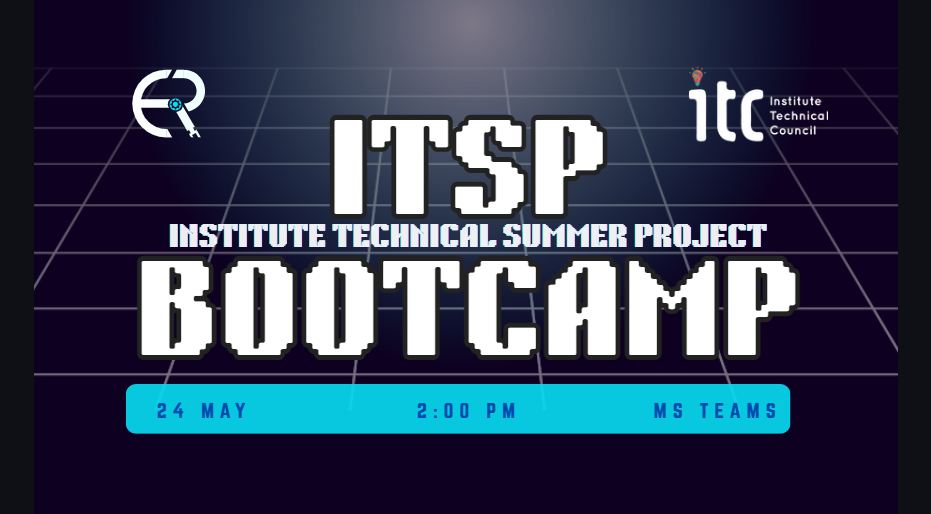
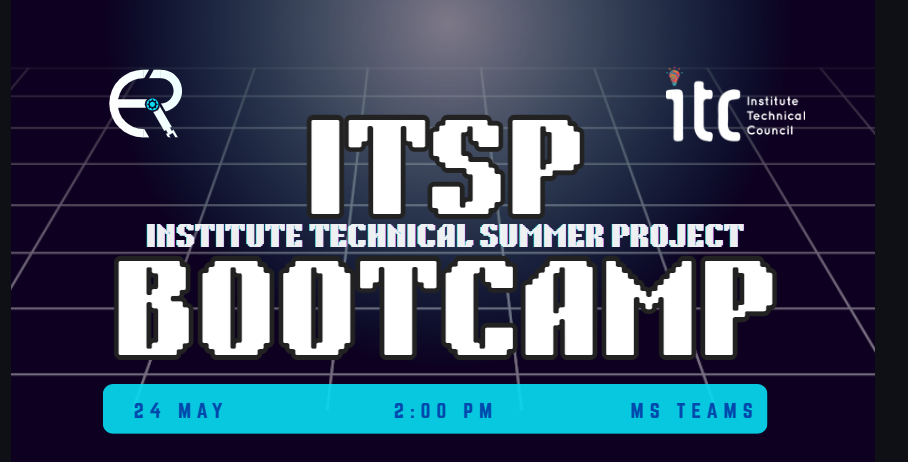
sor card added

diff --git a/src/components/Events.tsx b/src/components/Events.tsx
@@ -1,5 +1,4 @@
 import React, { useState } from 'react';
-import { Link, useNavigate } from 'react-router-dom';
 import {
   Calendar,
   Clock,
@@ -13,8 +12,6 @@ import Xlr8Img from '../assets/header.png';
 const Events = () => {
   const [email, setEmail] = useState('');
   const [subscribed, setSubscribed] = useState(false);
-
-  const navigate = useNavigate();
 
   const handleSubscribe = async () => {
     if (!email) return;
@@ -42,51 +39,82 @@ const Events = () => {
   };
 
   return (
-    <section id="events" className="py-20 bg-gray-900">
-      <div className="container mx-auto px-4">
+    <section
+      id="events"
+      className="py-20 bg-gray-950 relative overflow-hidden"
+    >
+
+      {/* Background Grid */}
+      <div className="absolute inset-0 overflow-hidden pointer-events-none">
+
+        <div
+          className="absolute inset-0 opacity-[0.06]"
+          style={{
+            backgroundImage: `
+              linear-gradient(to right, #ffffff 1px, transparent 1px),
+              linear-gradient(to bottom, #ffffff 1px, transparent 1px)
+            `,
+            backgroundSize: '50px 50px',
+          }}
+        ></div>
+
+        <div className="absolute inset-0 bg-[linear-gradient(to_bottom,transparent_95%,rgba(0,255,255,0.08)_100%)] bg-[length:100%_6px] opacity-20"></div>
+      </div>
+
+      <div className="container relative z-10 mx-auto px-4">
 
         {/* Heading */}
         <div className="text-center mb-16">
-          <h2 className="text-4xl font-heading mb-4">
+
+          <h2 className="text-5xl md:text-6xl font-heading mb-4 bg-gradient-to-r from-cyan-400 via-blue-500 to-orange-400 bg-clip-text text-transparent">
             Events
           </h2>
 
-          <div className="w-24 h-1 bg-blue-500 mx-auto mb-8"></div>
+          <div className="w-24 h-1 bg-cyan-400 mx-auto mb-8 rounded-full"></div>
 
           <p className="max-w-3xl mx-auto text-gray-300 text-lg">
-            Join us for workshops, competitions, and technical events
-            designed to enhance your skills and connect you with fellow
-            enthusiasts.
+            Join futuristic workshops, robotics bootcamps, and cutting-edge
+            engineering events designed to push your technical skills to the next level.
           </p>
         </div>
 
         <div className="grid grid-cols-1 lg:grid-cols-2 gap-8">
 
           {/* SUMMER OF ROBOTICS CARD */}
-          <div className="col-span-1 lg:col-span-2 bg-gradient-to-br from-blue-900/30 to-orange-900/30 rounded-xl overflow-hidden border border-blue-500/20">
+          <div className="relative col-span-1 lg:col-span-2 rounded-3xl overflow-hidden border border-cyan-400/20 bg-white/[0.06] backdrop-blur-md shadow-[0_0_40px_rgba(0,255,255,0.12)] hover:shadow-[0_0_55px_rgba(0,255,255,0.18)] transition-all duration-500">
+
             <div className="flex flex-col md:flex-row">
 
               {/* Content */}
-              <div className="md:w-1/2 p-8">
-                <div className="inline-flex items-center mb-4 px-3 py-1 bg-blue-500/20 rounded-full">
-                  <Calendar
-                    size={16}
-                    className="text-blue-400 mr-2"
-                  />
+              <div className="md:w-1/2 p-8 relative z-10">
 
-                  <span className="text-sm text-blue-400">
-                    Flagship Event
-                  </span>
+                {/* Featured Badge */}
+                <div className="relative inline-flex items-center mb-4 px-3 py-1 bg-cyan-500/10 border border-cyan-400/20 rounded-full backdrop-blur-md overflow-hidden">
+
+                  <div className="absolute inset-0 bg-cyan-400/20 blur-xl"></div>
+
+                  <div className="relative z-10 flex items-center">
+
+                    <Calendar
+                      size={16}
+                      className="text-cyan-400 mr-2"
+                    />
+
+                    <span className="text-sm text-cyan-300">
+                      Flagship Event
+                    </span>
+
+                  </div>
                 </div>
 
-                <h3 className="text-2xl font-bold mb-3 font-heading">
+                <h3 className="text-3xl font-bold mb-4 font-heading text-white">
                   Summer of Robotics
                 </h3>
 
                 <div className="flex items-center text-gray-300 mb-2">
                   <Calendar
                     size={16}
-                    className="mr-2 text-gray-400"
+                    className="mr-2 text-cyan-400"
                   />
 
                   <span>1.5 Month Program</span>
@@ -95,7 +123,7 @@ const Events = () => {
                 <div className="flex items-center text-gray-300 mb-2">
                   <Clock
                     size={16}
-                    className="mr-2 text-gray-400"
+                    className="mr-2 text-cyan-400"
                   />
 
                   <span>Hands-on Learning Series</span>
@@ -104,82 +132,99 @@ const Events = () => {
                 <div className="flex items-center text-gray-300 mb-4">
                   <MapPin
                     size={16}
-                    className="mr-2 text-gray-400"
+                    className="mr-2 text-cyan-400"
                   />
 
                   <span>MS Teams</span>
                 </div>
 
-                <p className="text-gray-300 mb-6">
-                  Summer of Robotics is ERC's flagship robotics
-                  learning program covering the complete mechatronics
-                  and robotics workflow — from robot anatomy and CAD
-                  modelling to ROS2 simulations using Gazebo.
-
-                  Participants explore SLAM, OpenCV,
-                  YOLOv8, MoveIt, RSSI heatmaps, Ollama LLM integration,
-                  and exciting real-world robotics projects throughout
-                  the bootcamp.
+                <p className="text-gray-300 leading-relaxed mb-6">
+                  Summer of Robotics is ERC's flagship robotics bootcamp where ideas
+                  turn into intelligent machines. Dive into the complete robotics pipeline
+                  — from robot anatomy, CAD modelling, and URDF design to ROS2 simulations in Gazebo.
+                  Build autonomous systems using SLAM, OpenCV, YOLOv8, MoveIt, RSSI heatmaps,
+                  and Ollama-powered robotics AI while working on exciting real-world projects
+                  throughout the program.
                 </p>
 
-                <button
-                  onClick={() => navigate('/summer-of-robotics')}
-                  className="px-6 py-3 bg-blue-600 hover:bg-orange-600 rounded-md transition-all inline-flex items-center"
+                <a
+                  href="https://docs.google.com/forms/d/e/1FAIpQLScnv4Bs1Nn_aaZ4wuiZ75AFcLq7rKTkbZFDNmyMu2C2FeM5bg/viewform?usp=publish-editor"
+                  target="_blank"
+                  rel="noopener noreferrer"
+                  className="group px-6 py-3 rounded-lg bg-gradient-to-r from-cyan-500 to-blue-600 hover:from-cyan-400 hover:to-blue-500 text-white font-medium transition-all duration-300 inline-flex items-center shadow-lg hover:-translate-y-1 hover:shadow-cyan-500/40 active:scale-95"
                 >
-                  Explore Program
+                  Register Now
 
-                  <ArrowRight size={16} className="ml-2" />
-                </button>
+                  <ArrowRight
+                    size={16}
+                    className="ml-2 transition-transform duration-300 group-hover:translate-x-1"
+                  />
+                </a>
               </div>
 
               {/* Image */}
-              <div className="md:w-1/2 h-64 md:h-auto relative">
+              <div className="md:w-1/2 h-64 md:h-auto relative overflow-hidden">
+
                 <img
                   src={Xlr8Img}
                   alt="Summer of Robotics"
                   loading="lazy"
-                  className="w-full h-full object-contain bg-gray-900 p-6"
+                  className="w-full h-full object-contain bg-gradient-to-br from-[#020617] via-[#0f172a] to-black p-8"
                 />
+
+                <div className="absolute inset-0 bg-gradient-to-tr from-cyan-500/10 via-transparent to-blue-500/10 opacity-60 pointer-events-none"></div>
               </div>
             </div>
           </div>
 
           {/* ITSP BOOTCAMP CARD */}
-          <div className="col-span-1 lg:col-span-2 bg-gradient-to-br from-orange-900/30 to-blue-900/30 rounded-xl overflow-hidden border border-orange-500/20">
+          <div className="relative col-span-1 lg:col-span-2 rounded-3xl overflow-hidden border border-orange-400/20 bg-white/[0.06] backdrop-blur-md shadow-[0_0_40px_rgba(255,140,0,0.12)] hover:shadow-[0_0_55px_rgba(255,140,0,0.18)] transition-all duration-500">
+
             <div className="flex flex-col md:flex-row">
 
-              {/* Replace your current image block with this */}
-              <div className="md:w-1/2 h-64 md:h-auto relative">
+              {/* Image */}
+              <div className="md:w-1/2 h-64 md:h-auto relative overflow-hidden">
+
                 <img
                   src={Cont}
                   alt="ITSP bootcamp"
                   loading="lazy"
-                  className="w-full h-full object-cover" 
+                  className="w-full h-full object-cover"
                 />
+
+                <div className="absolute inset-0 bg-gradient-to-tr from-orange-500/10 via-transparent to-yellow-500/10 opacity-60 pointer-events-none"></div>
               </div>
 
               {/* Content */}
-              <div className="md:w-1/2 p-8 order-1 md:order-2">
+              <div className="md:w-1/2 p-8 order-1 md:order-2 relative z-10">
 
-                <div className="inline-flex items-center mb-4 px-3 py-1 bg-orange-500/20 rounded-full">
-                  <Calendar
-                    size={16}
-                    className="text-orange-400 mr-2"
-                  />
+                {/* Technical Badge */}
+                <div className="relative inline-flex items-center mb-4 px-3 py-1 bg-orange-500/10 border border-orange-400/20 rounded-full backdrop-blur-md overflow-hidden">
 
-                  <span className="text-sm text-orange-400">
-                    Technical Bootcamp
-                  </span>
+                  <div className="absolute inset-0 bg-orange-400/20 blur-xl"></div>
+
+                  <div className="relative z-10 flex items-center">
+
+                    <Calendar
+                      size={16}
+                      className="text-orange-400 mr-2"
+                    />
+
+                    <span className="text-sm text-orange-300">
+                      Technical Bootcamp
+                    </span>
+
+                  </div>
                 </div>
 
-                <h3 className="text-2xl font-bold mb-3 font-heading">
+                <h3 className="text-3xl font-bold mb-4 font-heading text-white">
                   ITSP Bootcamp 2025
                 </h3>
 
                 <div className="flex items-center text-gray-300 mb-2">
                   <Calendar
                     size={16}
-                    className="mr-2 text-gray-400"
+                    className="mr-2 text-orange-400"
                   />
 
                   <span>24 May 2026</span>
@@ -188,7 +233,7 @@ const Events = () => {
                 <div className="flex items-center text-gray-300 mb-2">
                   <Clock
                     size={16}
-                    className="mr-2 text-gray-400"
+                    className="mr-2 text-orange-400"
                   />
 
                   <span>2:00 PM onwards</span>
@@ -197,20 +242,17 @@ const Events = () => {
                 <div className="flex items-center text-gray-300 mb-4">
                   <MapPin
                     size={16}
-                    className="mr-2 text-gray-400"
+                    className="mr-2 text-orange-400"
                   />
 
                   <span>MS Teams</span>
                 </div>
 
-                <p className="text-gray-300 mb-6">
-                  The ITSP Bootcamp introduced participants to the
-                  fundamentals of embedded systems, sensors,
-                  microcontrollers, and IoT development.
-                  Participants also explored powerful engineering tools
-                  like Gazebo, Proteus, MATLAB, and Simulink — making
-                  it the perfect starting point for students doing hardware 
-                  projects under ITSP.
+                <p className="text-gray-300 leading-relaxed mb-6">
+                  The ITSP Bootcamp introduced participants to embedded systems,
+                  sensors, microcontrollers, and IoT development while exploring
+                  tools like Gazebo, Proteus, MATLAB, and Simulink — making it
+                  the perfect launchpad for hardware and robotics projects.
                 </p>
 
                 {/* Buttons */}
@@ -220,60 +262,70 @@ const Events = () => {
                     href="https://github.com/erciitb/ITSP_Resources"
                     target="_blank"
                     rel="noopener noreferrer"
-                    className="px-6 py-3 bg-orange-600 hover:bg-orange-700 rounded-md transition-all inline-flex items-center"
+                    className="group/resources px-6 py-3 rounded-lg bg-gradient-to-r from-orange-500 to-orange-600 hover:from-orange-400 hover:to-orange-500 text-white font-medium transition-all duration-300 inline-flex items-center shadow-lg hover:-translate-y-1 hover:shadow-orange-500/40 active:scale-95"
                   >
                     Resources
 
-                    <ArrowRight size={16} className="ml-2" />
+                    <ArrowRight
+                      size={16}
+                      className="ml-2 transition-transform duration-300 group-hover/resources:translate-x-1"
+                    />
                   </a>
 
                   <a
                     href="https://drive.google.com/drive/folders/1f6STxw4HsI13xQ7eypBQ2V5cH2fjp4BD"
                     target="_blank"
                     rel="noopener noreferrer"
-                    className="px-6 py-3 bg-blue-600 hover:bg-blue-700 rounded-md transition-all inline-flex items-center"
+                    className="group/slides px-6 py-3 rounded-lg bg-gradient-to-r from-blue-500 to-blue-600 hover:from-blue-400 hover:to-blue-500 text-white font-medium transition-all duration-300 inline-flex items-center shadow-lg hover:-translate-y-1 hover:shadow-blue-500/40 active:scale-95"
                   >
                     Slides & Recordings
 
-                    <ArrowRight size={16} className="ml-2" />
+                    <ArrowRight
+                      size={16}
+                      className="ml-2 transition-transform duration-300 group-hover/slides:translate-x-1"
+                    />
                   </a>
-                </div>
+
+                </div>          
               </div>
             </div>
           </div>
         </div>
 
         {/* Subscription */}
-        <div className="mt-12 p-6 bg-blue-900/30 rounded-xl border border-gray-700 text-center mb-20">
-          <h3 className="text-xl font-semibold mb-4">
+        <div className="mt-12 p-6 bg-white/[0.06] backdrop-blur-md rounded-3xl border border-white/10 text-center mb-20 shadow-2xl">
+
+          <h3 className="text-2xl font-semibold mb-4 text-white">
             Stay Updated on All Events
           </h3>
 
           <p className="text-gray-300 mb-6">
-            Subscribe to our newsletter to receive updates about
-            workshops, competitions, and upcoming club activities.
+            Subscribe to receive updates about workshops,
+            robotics bootcamps, competitions, and club activities.
           </p>
 
           <div className="flex flex-col sm:flex-row max-w-md mx-auto">
+
             <input
               type="email"
               value={email}
               onChange={(e) => setEmail(e.target.value)}
               placeholder="Enter your email"
-              className="px-4 py-3 bg-gray-900 rounded-l-md focus:outline-none focus:ring-1 focus:ring-blue-500 border border-gray-700 mb-2 sm:mb-0 sm:flex-1"
+              className="px-4 py-3 bg-black/40 text-white rounded-l-md focus:outline-none focus:ring-1 focus:ring-cyan-400 border border-cyan-400/20 mb-2 sm:mb-0 sm:flex-1"
             />
 
             <button
               onClick={handleSubscribe}
               disabled={subscribed}
-              className={`px-6 py-3 transition-colors sm:rounded-l-none rounded-md ${
+              className={`px-6 py-3 transition-all duration-300 sm:rounded-l-none rounded-md ${
                 subscribed
                   ? 'bg-orange-600 text-white cursor-default'
-                  : 'bg-blue-600 hover:bg-blue-700 text-white'
+                  : 'bg-cyan-500 hover:bg-cyan-400 text-black font-semibold hover:-translate-y-1 active:scale-95'
               }`}
             >
               {subscribed ? 'Subscribed!' : 'Subscribe'}
             </button>
+
           </div>
         </div>
       </div>

diff --git a/src/index.css b/src/index.css
@@ -101,3 +101,17 @@ body {
 .animate-rotate-slow {
   animation: rotate-slow 120s linear infinite;
 }
+
+@keyframes float {
+  0% {
+    transform: translateY(0px);
+  }
+
+  50% {
+    transform: translateY(-12px);
+  }
+
+  100% {
+    transform: translateY(0px);
+  }
+}
